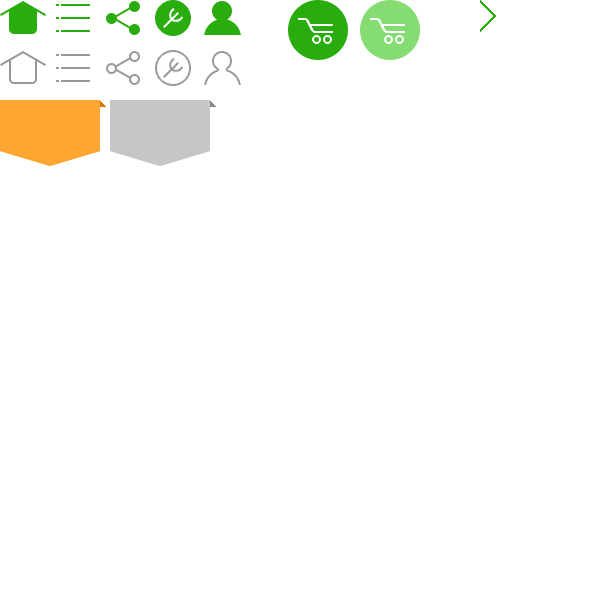
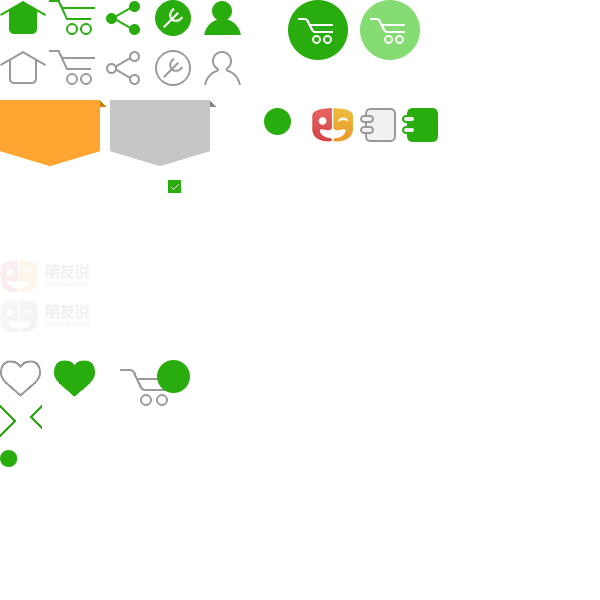
improve ui for tabs

diff --git a/scss/custom.scss b/scss/custom.scss
@@ -11,54 +11,55 @@ a{
   float: right; 
 }
 
-.tab-item .icon {
-  background: url($pyshuo_icon) 0 0 no-repeat;
-  width: 0.83855625em;
-  background-size: 10.9375em 10.9375em;
+.tabs-icon-top > .tabs .tab-item, .tabs-icon-top.tabs .tab-item, .tabs-icon-bottom > .tabs .tab-item, .tabs-icon-bottom.tabs .tab-item{
+  font-size: 14px;
+  line-height: 14px;
+  .icon{
+    background: url($pyshuo_icon) 0 0 no-repeat;
+    font-size: 14px;
+    width: 1.9167em;
+    height: 1.5em;
+    background-size: 25em 25em;
+    display: inline-block;
+    vertical-align: text-bottom;
+  }
+  .icon.icon-home {
+    background-position: 0 -2.083em;
+  }
+  .icon.icon-sharings {
+    background-position: -4.167em -2.083em;
+  }
+  .icon.icon-tryings {
+    background-position: -6.25em -2.083em;
+  }
+  .icon.icon-shopping-carts {
+    background-position: -2.083em -2.083em;
+  }
+  .icon.icon-my {
+    background-position: -8.333em -2.083em;
+  }
+  .tab-title{
+    display: block;
+  }
 }
 
-.tab-item .icon.icon-home {
-  background-position: 0 -0.7513125em;
-}
-
-.tab-item-active .icon.icon-home {
-  background-position: 0 0.2em;
-}
-
-.tab-item .icon.icon-categories {
-  background-position: -0.9113125em -0.7513125em;
-}
-
-.tab-item-active .icon.icon-categories {
-  background-position: -0.9113125em 0.2em;
-}
-
-.tab-item .icon.icon-sharings {
-  background-position: -1.8230625em -0.7513125em;
-}
-
-.tab-item-active .icon.icon-sharings {
-  background-position: -1.8230625em 0.2em;
-}
-
-.tab-item .icon.icon-tryings {
-  background-position: -2.734375em -0.7513125em;
-}
-
-.tab-item-active .icon.icon-tryings {
-  background-position: -2.734375em 0.2em;
-}
-
-.tab-item .icon.icon-my {
-  background-position: -3.6456875em -0.7513125em;
-}
-
-.tab-item-active .icon.icon-my {
-  background-position: -3.6456875em 0.2em;
-}
-
-.tab-item-active {
+.tabs-icon-top > .tabs .tab-item.tab-item-active, .tabs-icon-top.tabs .tab-item.tab-item-active, .tabs-icon-bottom > .tabs .tab-item.tab-item-active, .tabs-icon-bottom.tabs .tab-item.tab-item-active {
   color: #29ac0e;
+  .icon.icon-home {
+    background-position: 0 0;
+  }
+  .icon.icon-sharings {
+    background-position: -4.167em 0;
+  }
+  .icon.icon-tryings {
+    background-position: -6.25em 0;
+  }
+  .icon.icon-shopping-carts {
+    background-position: -2.083em 0;
+  }
+  .icon.icon-my {
+    background-position: -8.333em 0;
+  }
 }
 
 .radius10 {

diff --git a/angular/tabs.html b/angular/tabs.html
@@ -7,16 +7,9 @@
 
 
   <!-- Dashboard Tab -->
-  <ion-tab title="热卖" icon="icon-home" href="#/app/home">
+  <ion-tab title="首页" icon="icon-home" href="#/app/home">
     <ion-nav-view name="app-home"></ion-nav-view>
   </ion-tab>
-
-
-  <!-- Friends Tab -->
-  <ion-tab title="分类" icon="icon-categories" href="#/app/categories">
-    <ion-nav-view name="app-categories"></ion-nav-view>
-  </ion-tab>
-
 
   <!-- Friends Tab -->
   <ion-tab title="分享圈" icon="icon-sharings" href="#/app/sharings">
@@ -26,6 +19,11 @@
   <!-- Friends Tab -->
   <ion-tab title="试吃团" icon="icon-tryings" href="#/app/tryings">
     <ion-nav-view name="app-tryings"></ion-nav-view>
+  </ion-tab>
+
+  <!-- Friends Tab -->
+  <ion-tab title="购物车" icon="icon-shopping-carts" href="#/app/shoppingCarts">
+    <ion-nav-view name="app-shopping-carts"></ion-nav-view>
   </ion-tab>
 
   <!-- Account Tab -->
